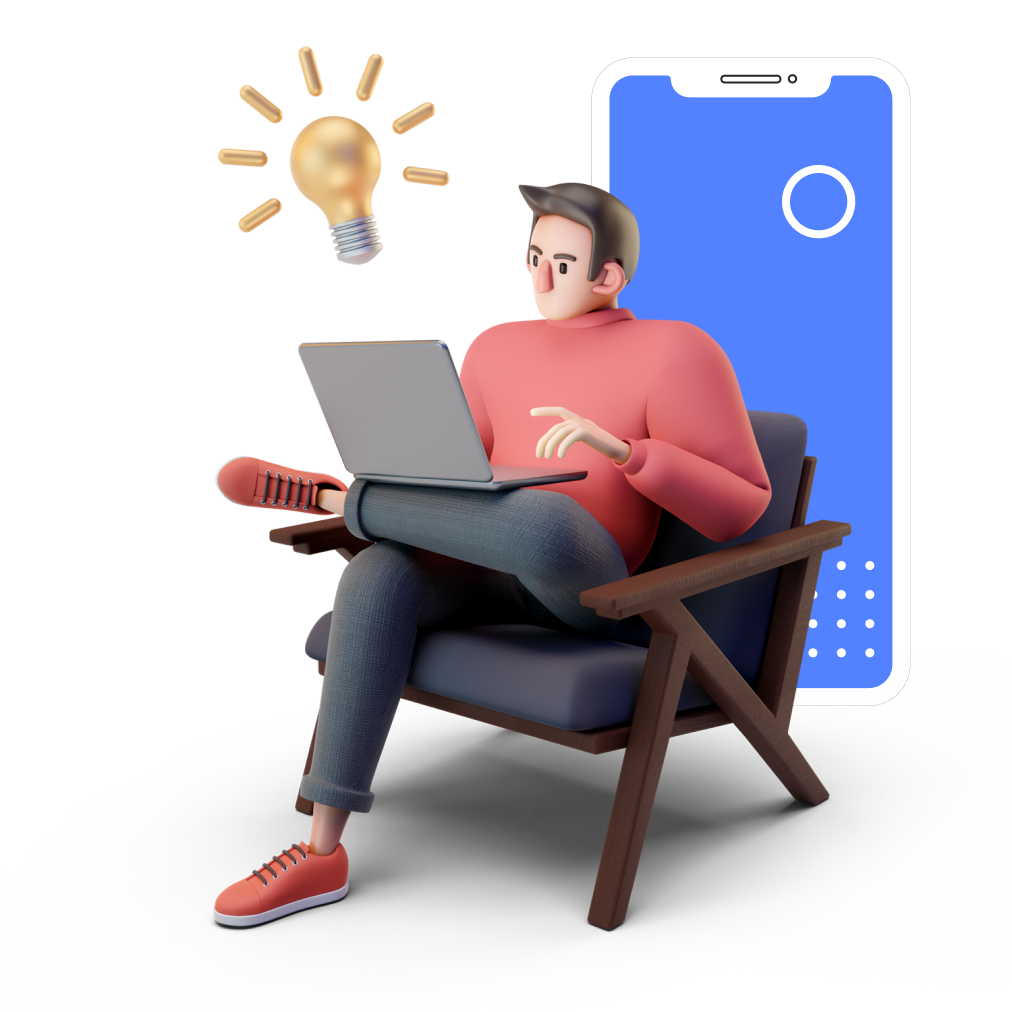
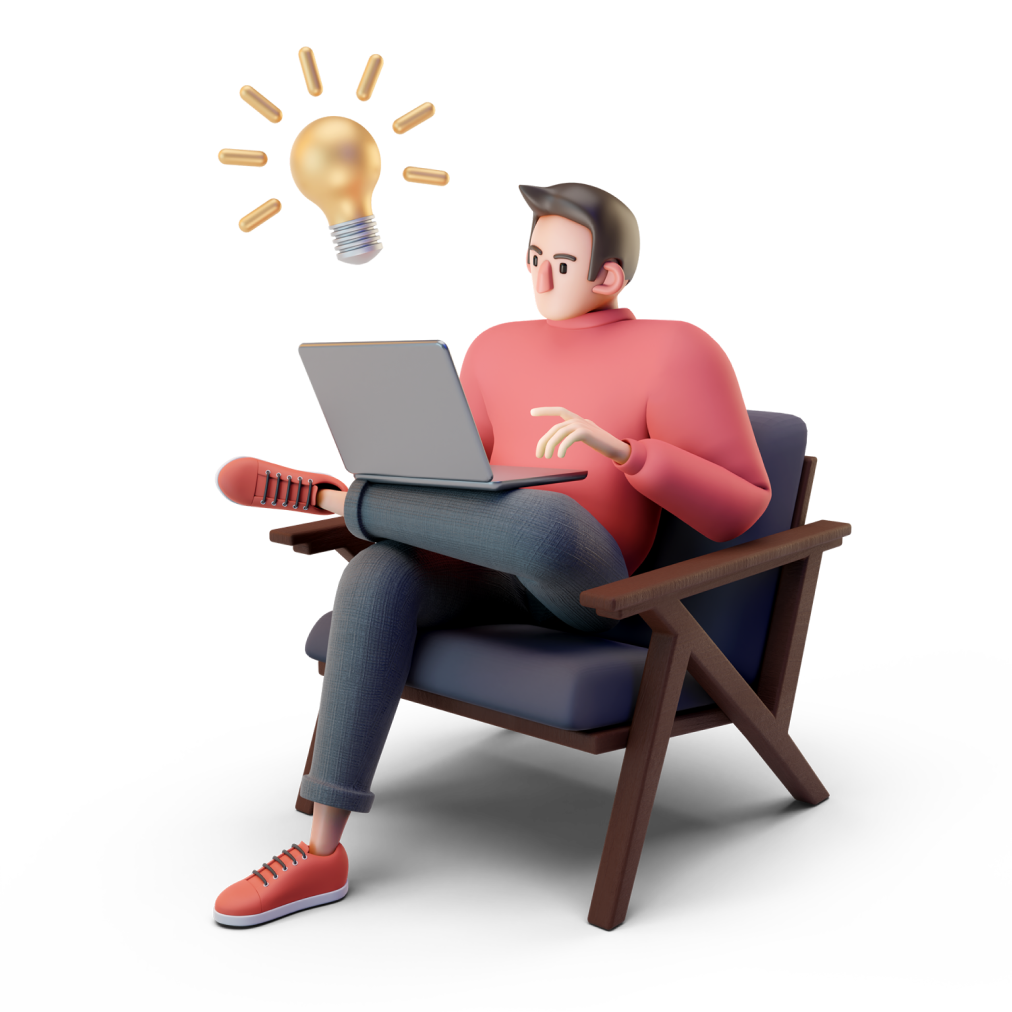
update_v5

Changed region(s): [[0.582, 0.0613, 0.8883, 0.7045]]

diff --git a/globalstyle.css b/globalstyle.css
@@ -85,17 +85,16 @@ body {
   min-height: 42px;
   display: grid;
   grid-template-columns: repeat(3, 1fr);
-  -webkit-box-shadow: 0px 16px 18px -14px rgba(0, 0, 0, 0.75);
-  -moz-box-shadow: 0px 16px 18px -14px rgba(0, 0, 0, 0.75);
-  box-shadow: 0px 16px 10px -14px rgba(0, 0, 0, 0.733);
-  /* background-color: rgb(244, 244, 244); */
+  -webkit-box-shadow: 0px 16px 30px -1px rgba(0, 0, 0, 0.733);
+  -moz-box-shadow: 0px 16px 30px -1px rgba(0, 0, 0, 0.733);
+  box-shadow: 0px 16px 30px -1px rgba(0, 0, 0, 0.733);
 }
 
 .nav-list a {
   text-decoration: none;
   color: black;
   position: relative;
-  background-color: rgb(244, 244, 244);
+  background-color: #fec942;
 }
 
 .nav-list a:active{
@@ -106,7 +105,7 @@ body {
 .nav-list .active{
   color: white;
   font-weight: 600;
-  background-color: rgb(80, 130, 255);
+  background-color: rgb(25, 28, 35);
   /* border-bottom:  2px solid rgb(244, 244, 244); */
 }
 
@@ -118,15 +117,6 @@ body {
   text-align: center;
   transition: 0.15s linear;
 }
-
-/* .nav-list > a:hover {
-  cursor: pointer;
-  background-color: rgb(227, 227, 227);
-}
-
-.nav-list > a:hover i {
-  background-color: rgb(227, 227, 227);
-} */
 
 .landing {
   width: 100%;
@@ -154,7 +144,7 @@ body {
 }
 
 .cat1{
-  background: rgba(255, 255, 255, 0);
+  background: rgba(203, 163, 121, 0);
   width: 60px;
   height: 60px;
   border-radius: 250px;
@@ -175,7 +165,6 @@ body {
   background: #fff;
   width: 60px;
   height: 60px;
-
   border-radius: 250px;
   animation: lefty 5s infinite;
   position: relative;
@@ -189,7 +178,7 @@ body {
   position: relative;
   border-radius: 50%;
   top: 15px;
-  background: #0e173c5d;
+  background: #f8ddac;
   z-index: 2;
   animation: lefty 5s infinite;
   animation-delay: 1s;
@@ -283,12 +272,12 @@ body {
   margin: 0;
   border-radius: 40px;
   border: none;
-  background-color: #1c4076;
-  color: white;
+  background-color: #edf9fb;
+  color: black;
   font-family: "ubuntu";
   text-align: center;
   font-size: 1.1rem;
-  box-shadow: 0px 14px 56px -11px #00000089;
+  box-shadow: 0px 14px 56px -11px #dfc58c4e;
   width: auto;
   padding: 1em 2.5em;
   transition: all 0.4s;
@@ -317,7 +306,8 @@ body {
 }
 
 .button:hover {
-  background-color: #4d8be7;
+  background-color: #ffffff;
+  box-shadow: 0px 14px 56px -11px #ffffff6a;
 }
 
 .button:hover span {
@@ -456,7 +446,7 @@ body {
 	right: 0px;
 	bottom: 0px;
 	border-radius: 50%;
-	border: solid rgb(121, 168, 255) 3px;
+	border: solid rgb(17, 28, 49) 3px;
 	animation-name: spread;
 	animation-duration: var(--duration);
 	animation-delay: var(--delay);
@@ -495,7 +485,7 @@ body {
 	right: 35%;
 	border-radius: 8px;
 	clip-path: polygon(7% 100%, 5% 95%, 3% 80%, 11% 50%, 17% 38%, 23% 44%, 30% 53%, 37% 28%, 40% 29%, 45% 43%, 51% 53%, 59% 36%, 64% 22%, 67% 23%, 70% 34%, 72% 46%, 79% 37%, 83% 37%, 93% 61%, 96% 76%, 96% 94%, 94% 100%);
-	background-color: rgb(77, 72, 218);
+	background-color: rgb(77, 76, 98);
 	transform-origin: bottom;
 	animation-name: splash;
 	animation-duration: var(--duration);
@@ -534,7 +524,7 @@ body {
 .particles > div{
 	position: absolute;	
 	border-radius: 100%;
-	background-color: rgb(65, 127, 242);
+	background-color: rgb(65, 73, 88);
 	animation-duration: var(--duration);
 	animation-delay: var(--delay);
 	animation-iteration-count: infinite;
@@ -640,7 +630,7 @@ body {
 .projects-list h1::before {
   content: "";
   position: absolute;
-  background-color: rgb(49, 120, 212);
+  background-color: rgb(30, 55, 87);
   animation: line 5s linear infinite;
   height: 5%;
   bottom: 0%;
@@ -688,23 +678,6 @@ body {
 box-shadow: 2px 11px 40px -16px rgba(0,0,0,0.75);
 }
 
-/* @media only screen and (min-width: 992px) and (min-height: 780px) {
-    .sticks{
-    position: -webkit-sticky;
-    position: sticky;
-    top: 2%;
-    z-index: 10;
-}
-
-.projects-list{
-    
-    height: 105vh;
-}
-.timeline{
-
-    margin-top: -45vh;
-}
-} */
 
 .timeline {
   position: relative;
@@ -750,7 +723,7 @@ box-shadow: 2px 11px 40px -16px rgba(0,0,0,0.75);
 .timeline-row .timeline-content {
   position: relative;
   padding: 20px 30px;
-  background: #1a233a;
+  background: #23282d;
   color: #ffffff;
   -webkit-border-radius: 4px;
   -moz-border-radius: 4px;
@@ -801,7 +774,7 @@ box-shadow: 2px 11px 40px -16px rgba(0,0,0,0.75);
   -webkit-border-radius: 100px;
   -moz-border-radius: 100px;
   border-radius: 100px;
-  background: #6f8effa4;
+  background: #ffffff1a;
   margin-bottom: 10px;
   display: inline-block;
 }
@@ -815,7 +788,9 @@ box-shadow: 2px 11px 40px -16px rgba(0,0,0,0.75);
 }
 .timeline-row .timeline-content .badge {
   color: #ffffff;
-  background: linear-gradient(120deg, #00b5fd 0%, #0047b1 100%);
+  /* background: linear-gradient(120deg, #00b5fd 0%, #0047b1 100%); */
+  border: 0.85px solid white;
+  font-weight: 100 !important;
 }
 .timeline-row:nth-child(even) .timeline-content {
   margin-left: 40px;
@@ -927,16 +902,16 @@ box-shadow: 2px 11px 40px -16px rgba(0,0,0,0.75);
   background: rgb(4, 0, 78);
   background: linear-gradient(
     0deg,
-    rgba(4, 0, 78, 1) 0%,
-    rgba(9, 9, 121, 1) 5%,
-    rgba(0, 105, 199, 1) 100%
+    rgb(7, 15, 31) 0%,
+    rgb(9, 21, 43) 5%,
+    rgb(46, 48, 50) 100%
   );
   min-height: 50vw;
   color: white;
   margin-top: 6.7vh;
   margin-left: 5%;
   width: 95%;
-  border-radius: 1.3em;
+  border-top-left-radius: 1.3em;
   border-top-right-radius: 0;
   border-bottom-right-radius: 0;
   padding: 5%;
@@ -955,7 +930,7 @@ box-shadow: 2px 11px 40px -16px rgba(0,0,0,0.75);
   color: #fff;
   width: 65%;
   border-radius: 10px;
-  background: linear-gradient(90deg, #35309c, #3d4be5);
+  background: linear-gradient(90deg, #303640, #fec9429f);
   box-shadow: 0px 0px 30px #00000090;
   border: none;
 }
@@ -985,7 +960,7 @@ box-shadow: 2px 11px 40px -16px rgba(0,0,0,0.75);
   border: none;
   margin-right: 10px;
   border-radius: 50%;
-  background-color: #2e6ecf;
+  background-color: #222831;
 }
 
 .num {
@@ -1007,7 +982,7 @@ box-shadow: 2px 11px 40px -16px rgba(0,0,0,0.75);
 }
 
 .fa-linkedin {
-  color: #15284f;
+  color: #f6f6f6;
 }
 
 .fa-google {
@@ -1023,42 +998,20 @@ box-shadow: 2px 11px 40px -16px rgba(0,0,0,0.75);
 }
 
 .profile_button {
-  color: #fff;
+  color: rgb(0, 0, 0);
   padding: 10px;
   border: none;
   outline: 0 !important;
   border-radius: 50px;
-  background: #4159e3;
+  background: #f0f0f0;
   transition: all 0.1s linear;
-  box-shadow: 28px 28px 57px #2b177a, -28px -28px 57px #5762de;
+  box-shadow: 28px 28px 57px #2b177a00, 3px 5px 17px #a2a5c000;
 }
 
 .profile_button:hover{
     letter-spacing: 0.1em;
-    background-color: #546eff;
     box-shadow: 0px 0px 10px #667aff00;
 }
-/* 
-.about-info > div{
-    min-height: 15.6%;
-    background-color: rgba(22, 25, 94, 0.445);
-    margin: 2% auto;
-    border-radius: 1em;
-    display: flex;
-    flex-wrap: wrap;
-    padding: 5%;
-    align-items: center;
-    align-content: center;
-    letter-spacing: 0.05em;
-}
-
-.about-info > div img{
-    width: 20%;
-    height: auto;
-    margin-right: 5%;
-    border-radius: 1em;
-    object-fit:fill;
-} */
 
 .about .about-src {
   width: 30%;
@@ -1066,13 +1019,12 @@ box-shadow: 2px 11px 40px -16px rgba(0,0,0,0.75);
 }
 
 .about .about-src img {
-  width: 200%;
+  width: 120%;
   height: auto;
   position: absolute;
   top: 50%;
   left: 50%;
   transform: translate(-25%, -32%);
-  /* animation: planet 3s linear infinite; */
 }
 
 @keyframes planet {
@@ -1132,7 +1084,6 @@ box-shadow: 2px 11px 40px -16px rgba(0,0,0,0.75);
     top: 50%;
     left: 50%;
     transform: translate(-25%, -75%);
-    /* animation: planet 3s linear infinite; */
   }
 
   .profile-c{
@@ -1176,7 +1127,7 @@ box-shadow: 2px 11px 40px -16px rgba(0,0,0,0.75);
     }
 
     .profile-c{
-        background: linear-gradient(90deg, #35309cd3, #3d4be5d4);
+        /* background: linear-gradient(90deg, #35309cd3, #3d4be5d4); */
     }
 
     .projects-list{
@@ -1282,17 +1233,3 @@ box-shadow: 2px 11px 40px -16px rgba(0,0,0,0.75);
 .button-links a:nth-child(3){
   margin-top: 100px;
 }
-
-
-::-webkit-scrollbar {
-    width: 10px;
-  }
-  
-  ::-webkit-scrollbar-thumb {
-    border-radius: 20px;
-    background-color: rgba(36, 51, 160, 0.995);
-  }
-  
-  ::-webkit-scrollbar-thumb:hover {
-    background-color: rgba(42, 63, 221, 0.995);
-  }

diff --git a/index.html b/index.html
@@ -45,19 +45,6 @@
         </div>
       </div>
 
-      <!-- <div style="
-        min-width: 20vh;
-        width: 100%;
-        display: flex;
-        justify-content: center;
-        padding: 2% 0%;
-      ">
-        <img src="img/dc.png" style="
-          width: 15%; max-width: 200px; min-width: 85px;
-          height: auto;
-        " alt="logo">
-      </div> -->
-
       <div class="sections landing">
         <div class="father-div">
           <div class="cat1">
@@ -415,10 +402,10 @@
 
       <div class="designs">
         <div class="figma">
-          <img src="img/figma.png" alt="" />
+          <img src="img/Laptop.png" alt="" />
         </div>
         <div class="designs-content">
-          <img src="img/figma_laptop.svg" alt="" />
+          <!-- <img src="img/figma_laptop.svg" alt="" /> -->
         </div>
         <div id="contact"></div>
       </div>
@@ -486,7 +473,7 @@
           data-aos-duration="3000"
           data-aos-offset="-200"
         >
-          <img src="img/Planet-8.png" alt="" />
+          <img src="img/floating_guy.png" alt="" />
         </div>
       </div>
 
